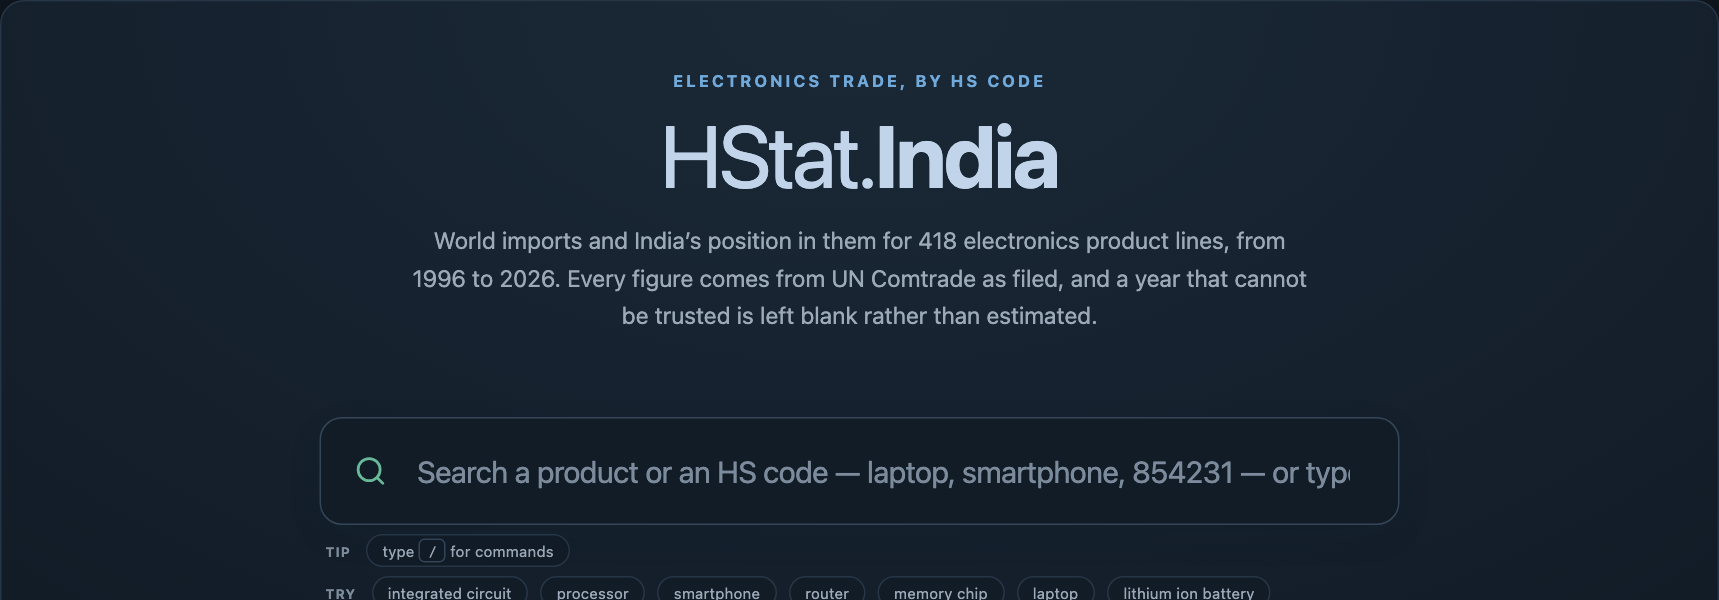
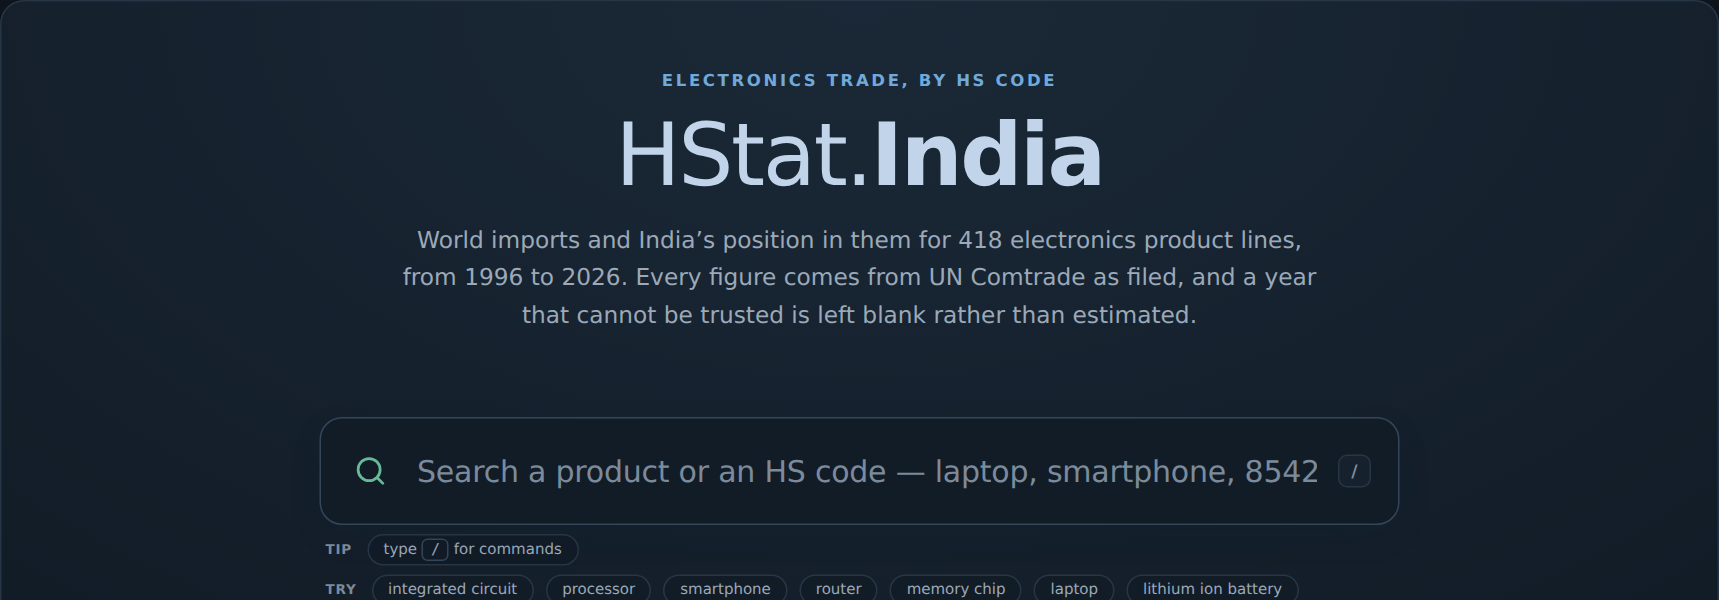
Slash focuses the search, from anywhere on the page
The box already treated a leading slash as the switch into commands, but
only once the cursor was in it - so the shortcut everybody's fingers already
know did nothing until you had done the thing it was meant to save you. On a
product page that meant reaching for the mouse, finding a 300px box in the
title strip, clicking it, and only then typing.

It focuses an empty box rather than pre-filling a slash. "/" means "let me
type" everywhere else on the web, and a reader who wanted commands presses
it a second time - which is the gesture the box already documents, and which
still works unchanged.

WHAT IT REFUSES TO DO

Steal the key from anyone typing. A search field, a report name, the tariff
filter and a contenteditable are all places where "/" is a character, and a
shortcut that eats one is worse than no shortcut. preventDefault is called
only after we know we are acting, never before. Modifiers are left alone:
ctrl+/ and cmd+/ belong to the browser.

Below 900px there is no box in the title strip to focus, so it opens the
search sheet instead - which is what anybody on a tablet with a keyboard
would expect, and what nobody on a phone will ever press.

TEACHING IT

A "/" badge sits in the box while it is idle, the way every site with this
shortcut teaches it, and disappears the moment the box is in use so it never
sits beside a query. Hidden on touch, where there is no key to press. The
placeholder stops advertising the slash, because the badge now does it
[…]

diff --git a/src/lib/hotkeys.ts b/src/lib/hotkeys.ts
@@ -1,0 +1,80 @@
+import { useEffect } from 'react'
+
+/*
+ * Slash to search.
+ *
+ * The box already treated a leading "/" as the switch into commands, but only
+ * once your cursor was in it - so the shortcut everybody's fingers already
+ * know did nothing until you had done the thing the shortcut was meant to
+ * save you. On a product page that meant reaching for the mouse, finding a
+ * 300px box in the title strip, clicking it, and only then typing.
+ *
+ * WHAT IT DOES NOT DO
+ *
+ * It does not steal the key from anyone typing. A search field, a report
+ * name, a filter box and a contenteditable are all places where "/" is a
+ * character, and a shortcut that eats one is worse than no shortcut. Nor does
+ * it fire with a modifier held: ctrl+/ and cmd+/ belong to the browser and to
+ * whatever the reader has bound them to.
+ *
+ * WHY IT FOCUSES RATHER THAN PRE-FILLING
+ *
+ * Pressing "/" could have put a "/" in the box and opened the command list
+ * directly. It focuses an empty box instead, because "/" means "let me type"
+ * everywhere else on the web - GitHub, Slack, Linear - and because a reader
+ * who wanted commands types the slash again, which is exactly the gesture the
+ * box already documents. Search is the common case; commands are one more
+ * keystroke, and that keystroke is the one already advertised.
+ */
+export function useSlashToSearch(open: () => void) {
+  useEffect(() => {
+    function onKey(event: KeyboardEvent) {
+      if (event.key !== '/' || event.ctrlKey || event.metaKey || event.altKey) {
+        return
+      }
+
+      const target = event.target as HTMLElement | null
+
+      if (target) {
+        const tag = target.tagName
+
+        if (
+          tag === 'INPUT' ||
+          tag === 'TEXTAREA' ||
+          tag === 'SELECT' ||
+          target.isContentEditable
+        ) {
+          return
+        }
+      }
+
+      /* Only now, once we know we are going to act on it - otherwise a "/"
+       * typed into a field would vanish. */
+      event.preventDefault()
+      open()
+    }
+
+    document.addEventListener('keydown', onKey)
+
+    return () => document.removeEventListener('keydown', onKey)
+  }, [open])
+}
+
+/*
+ * Where the box is, on whichever page this is.
+ *
+ * The front page has the hub in the middle of the screen and every other page
+ * has the bar in the title strip; only one of the two is ever mounted, so the
+ * first match is the right one. Selecting the existing text means a second
+ * press starts a fresh query rather than appending to a stale one.
+ */
+export function focusSearchBox(): boolean {
+  const input = document.querySelector<HTMLInputElement>('.search-hub input')
+
+  if (!input) return false
+
+  input.focus()
+  input.select()
+
+  return true
+}

diff --git a/src/components/SearchHub.tsx b/src/components/SearchHub.tsx
@@ -462,6 +462,7 @@ export function SearchHub({
   variant?: 'hub' | 'bar'
 }) {
   const [query, setQuery] = useState('')
+  const [focused, setFocused] = useState(false)
 
   const [open, setOpen] = useState(false)
 
@@ -561,7 +562,11 @@ export function SearchHub({
               setOpen(false)
             }
           }}
-          onFocus={() => setOpen(true)}
+          onFocus={() => {
+            setOpen(true)
+            setFocused(true)
+          }}
+          onBlur={() => setFocused(false)}
           /*
            * A placeholder that does not fit is not a hint, it is a truncated
            * sentence. At 390px the long form got as far as "an HS code –"
@@ -573,7 +578,7 @@ export function SearchHub({
             phone
               ? 'Product or HS code'
               : bar
-                ? 'Search, or / for commands…'
+                ? 'Search products and codes…'
                 : 'Search a product or an HS code — laptop, smartphone, 854231 — or type / for commands'
           }
           aria-label="Search products and HS codes"
@@ -584,6 +589,20 @@ export function SearchHub({
           <button className="search-clear" onClick={() => setQuery('')}>
             Clear
           </button>
+        )}
+
+        {/*
+          * The shortcut, where the shortcut is used.
+          *
+          * "/" focuses this box from anywhere on the page, which is no use to
+          * anybody who does not know it exists. A badge in the box is how
+          * every site with this shortcut teaches it, and it disappears the
+          * moment the box is in use so it never sits beside a query.
+          *
+          * Not shown on touch, where there is no key to press.
+          */}
+        {!query && !phone && !focused && (
+          <kbd className="search-key" aria-hidden="true">/</kbd>
         )}
       </div>
 

diff --git a/src/App.tsx b/src/App.tsx
@@ -49,6 +49,7 @@ import { PageHelpProvider, type PageHelp } from './lib/pagehelp'
 import { TabBar, type TabId } from './components/TabBar'
 import { Sheet } from './components/Sheet'
 import { useNoRail } from './lib/viewport'
+import { focusSearchBox, useSlashToSearch } from './lib/hotkeys'
 import { Safely } from './components/Safely'
 import { HomeView } from './components/HomeView'
 import { HStackPanel } from './components/HStackPanel'
@@ -469,6 +470,28 @@ function App() {
 
     window.scrollTo({ top: 0, behavior: 'smooth' })
   }, [])
+
+  /*
+   * "/" from anywhere. On a phone that means the search sheet, because there
+   * is no box in the title strip to focus; on a desktop it is whichever box
+   * this page mounted. If neither exists - which should not happen, but a
+   * page could be added without one - it falls back to the front page, which
+   * always has one.
+   *
+   * Declared here rather than beside the other state because goHome is a
+   * genuine dependency, and a dependency array is evaluated at render: naming
+   * a const that is declared further down throws before the page ever paints.
+   */
+  useSlashToSearch(
+    useCallback(() => {
+      if (noRail) {
+        setSearchOpen(true)
+        return
+      }
+
+      if (!focusSearchBox()) goHome()
+    }, [noRail, goHome]),
+  )
 
   /*
    * What "/" can do.

diff --git a/src/styles.css b/src/styles.css
@@ -8818,13 +8818,8 @@ table.contribution tfoot th {
   .viewswitch button,
   .flowswitch button {
     min-height: 44px;
-    min-width: 44px;
     padding-right: 14px;
     padding-left: 14px;
-  }
-
-  .dgcis-csv {
-    min-width: 44px;
   }
 
   /* Text inputs at 16px, because anything smaller makes iOS zoom the page on
@@ -9078,5 +9073,36 @@ table.contribution tfoot th {
   .guide-two,
   .home-hs8-cols {
     grid-template-columns: minmax(0, 1fr);
+  }
+}
+
+/* The "/" badge inside the search box: how the shortcut is taught. */
+.search-key {
+  display: inline-flex;
+  min-width: 22px;
+  height: 22px;
+  align-items: center;
+  justify-content: center;
+
+  padding: 0 6px;
+
+  color: var(--faint);
+  font-family: inherit;
+  font-size: 11.5px;
+  font-weight: 700;
+  line-height: 1;
+
+  background: var(--panel-soft);
+  border: 1px solid var(--border);
+  border-radius: 6px;
+
+  pointer-events: none;
+}
+
+/* On a page without a keyboard it is noise; on a narrow one it competes with
+   the placeholder for the only room there is. */
+@media (max-width: 640px), (hover: none) and (pointer: coarse) {
+  .search-key {
+    display: none;
   }
 }

diff --git a/src/components/Guide.tsx b/src/components/Guide.tsx
@@ -561,8 +561,11 @@ export function Guide({
         <h3>7.2 &nbsp;Commands</h3>
 
         <p>
-          Type <kbd>/</kbd> in the search box for commands: jump somewhere,
-          switch flow or currency, build a report, open this guide.
+          <strong>Press <kbd>/</kbd> anywhere</strong> and the search box takes
+          the cursor — on a phone it opens search full screen. Press it a
+          second time, now inside the box, and the box becomes a command list:
+          jump somewhere, switch flow or currency, build a report, open this
+          guide.
         </p>
 
         <Figure
